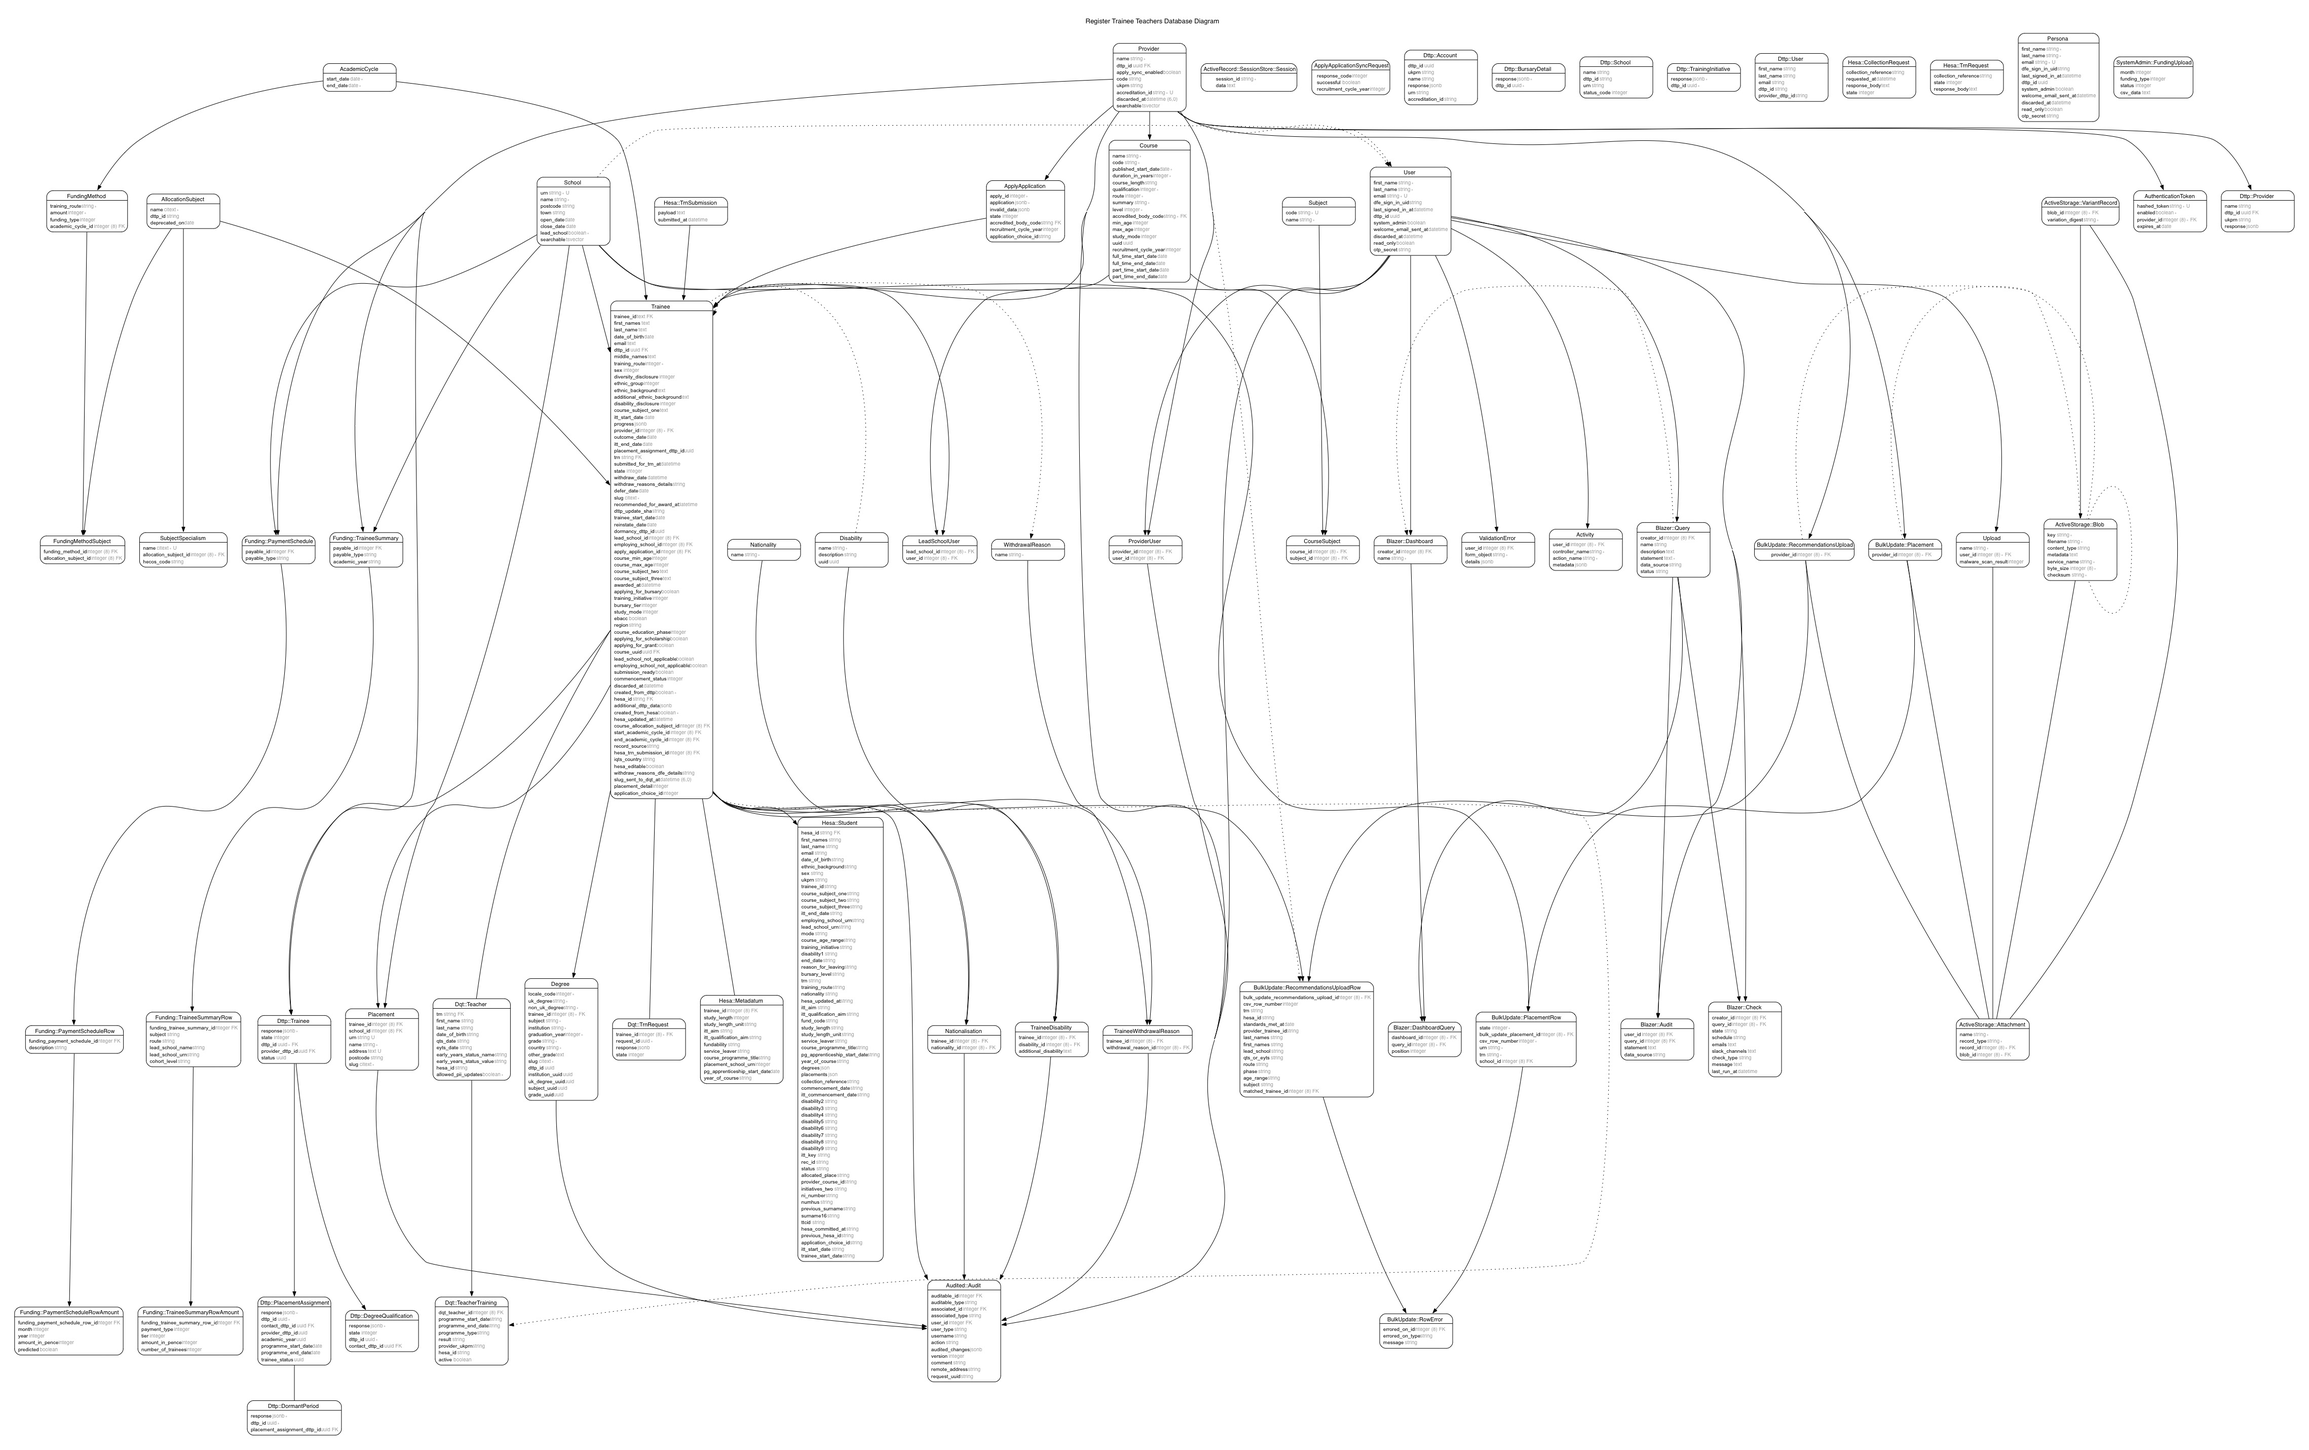
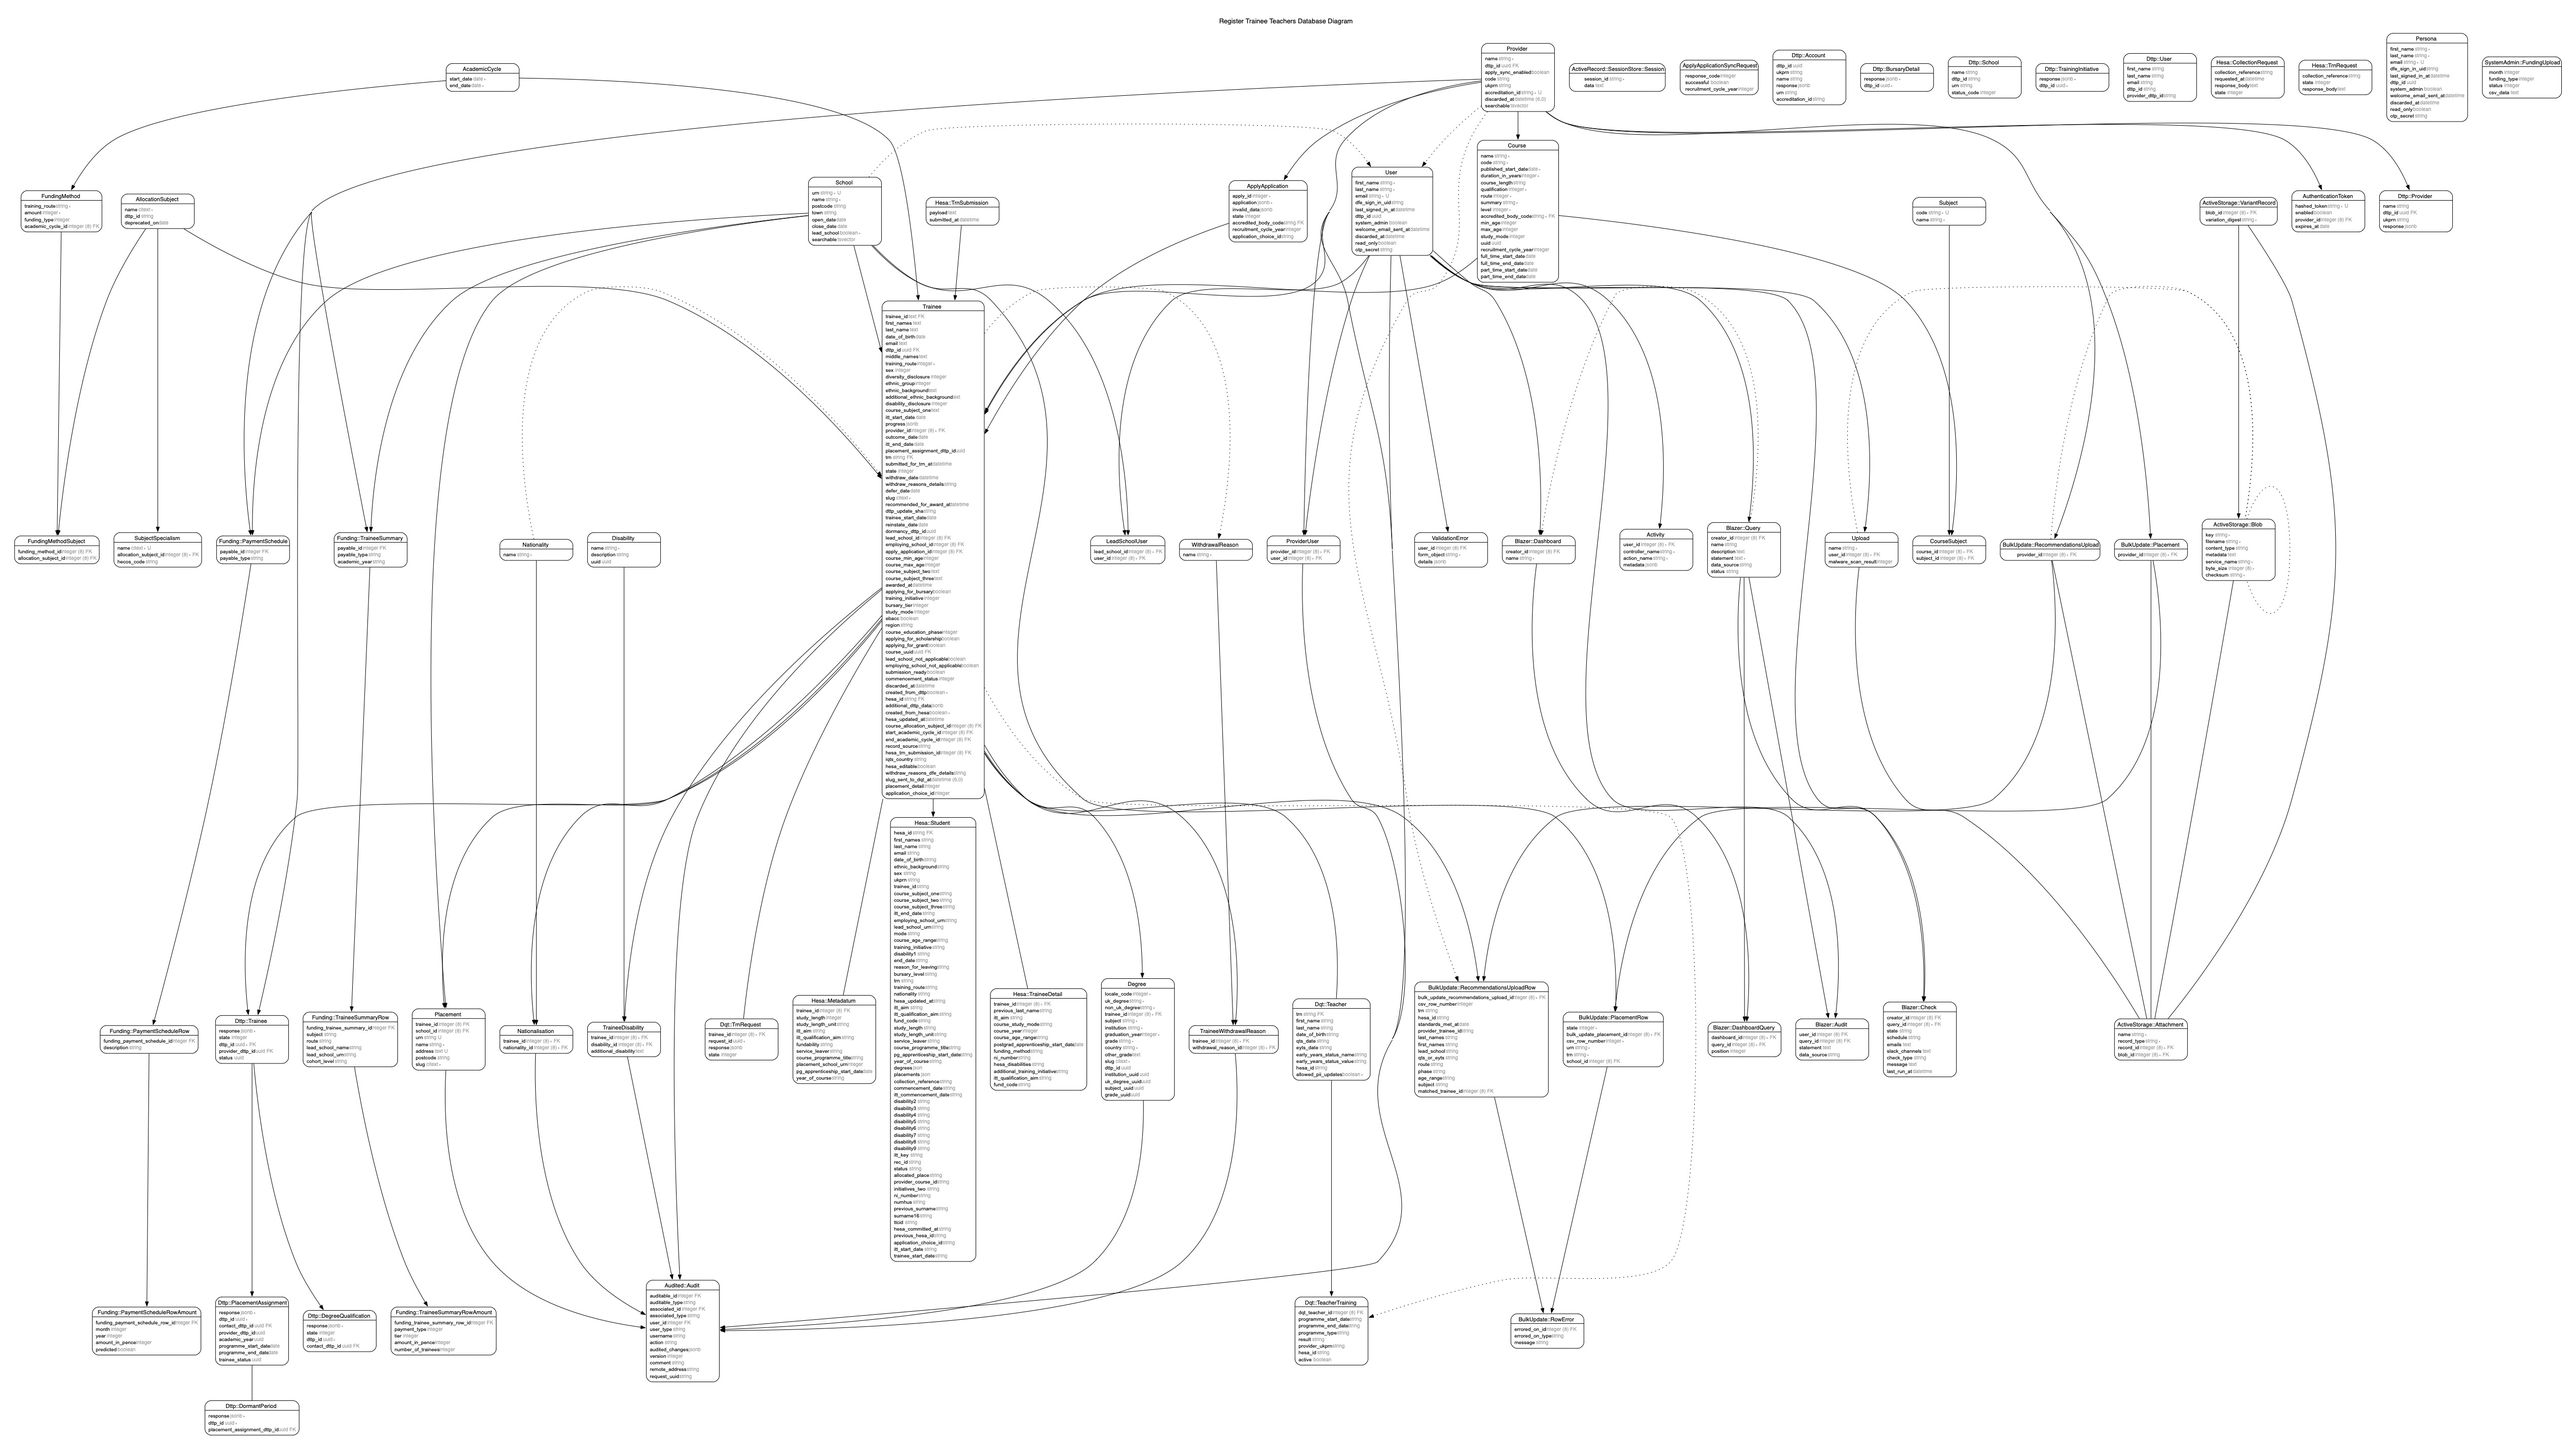
Add missing fields to hesa_trainee_details

diff --git a/app/models/hesa/trainee_detail.rb b/app/models/hesa/trainee_detail.rb
@@ -2,14 +2,18 @@
 
 # == Schema Information
 #
-# Table name: hesa_trainees
+# Table name: hesa_trainee_details
 #
 #  id                                 :bigint           not null, primary key
+#  additional_training_initiative     :string
 #  course_age_range                   :string
 #  course_study_mode                  :string
 #  course_year                        :integer
+#  fund_code                          :string
 #  funding_method                     :string
+#  hesa_disabilities                  :string           default([]), is an Array
 #  itt_aim                            :string
+#  itt_qualification_aim              :string
 #  ni_number                          :string
 #  postgrad_apprenticeship_start_date :date
 #  previous_last_name                 :string
@@ -19,11 +23,11 @@
 #
 # Indexes
 #
-#  index_hesa_trainees_on_trainees_id  (trainees_id)
+#  index_hesa_trainee_details_on_trainee_id  (trainee_id)
 #
 # Foreign Keys
 #
-#  fk_rails_...  (trainees_id => trainees.id)
+#  fk_rails_...  (trainee_id => trainees.id)
 #
 
 module Hesa

diff --git a/db/schema.rb b/db/schema.rb
@@ -10,7 +10,7 @@
 #
 # It's strongly recommended that you check this file into your version control system.
 
-ActiveRecord::Schema[7.1].define(version: 2024_03_14_234421) do
+ActiveRecord::Schema[7.1].define(version: 2024_04_05_151728) do
   # These are extensions that must be enabled in order to support this database
   enable_extension "btree_gist"
   enable_extension "citext"
@@ -668,6 +668,8 @@ ActiveRecord::Schema[7.1].define(version: 2024_03_14_234421) do
     t.string "additional_training_initiative"
     t.datetime "created_at", null: false
     t.datetime "updated_at", null: false
+    t.string "itt_qualification_aim"
+    t.string "fund_code"
     t.index ["trainee_id"], name: "index_hesa_trainee_details_on_trainee_id"
   end
 

diff --git a/db/migrate/20240405151728_add_fields_to_hesa_trainee_details.rb b/db/migrate/20240405151728_add_fields_to_hesa_trainee_details.rb
@@ -1,0 +1,6 @@
+class AddFieldsToHesaTraineeDetails < ActiveRecord::Migration[7.1]
+  def change
+    add_column :hesa_trainee_details, :itt_qualification_aim, :string
+    add_column :hesa_trainee_details, :fund_code, :string
+  end
+end

diff --git a/spec/factories/hesa/trainee_details.rb b/spec/factories/hesa/trainee_details.rb
@@ -14,5 +14,7 @@ FactoryBot.define do
     ni_number { "QQ 12 34 56 C" }
     hesa_disabilities { ["95"] }
     additional_training_initiative { "026" }
+    itt_qualification_aim { "F_QLAIM" }
+    fund_code { "F_FUNDCODE" }
   end
 end

diff --git a/app/models/api/hesa_trainee_detail_attributes/v01.rb b/app/models/api/hesa_trainee_detail_attributes/v01.rb
@@ -12,6 +12,8 @@ module Api
         course_year
         funding_method
         itt_aim
+        itt_qualification_aim
+        fund_code
         ni_number
         postgrad_apprenticeship_start_date
         previous_last_name
